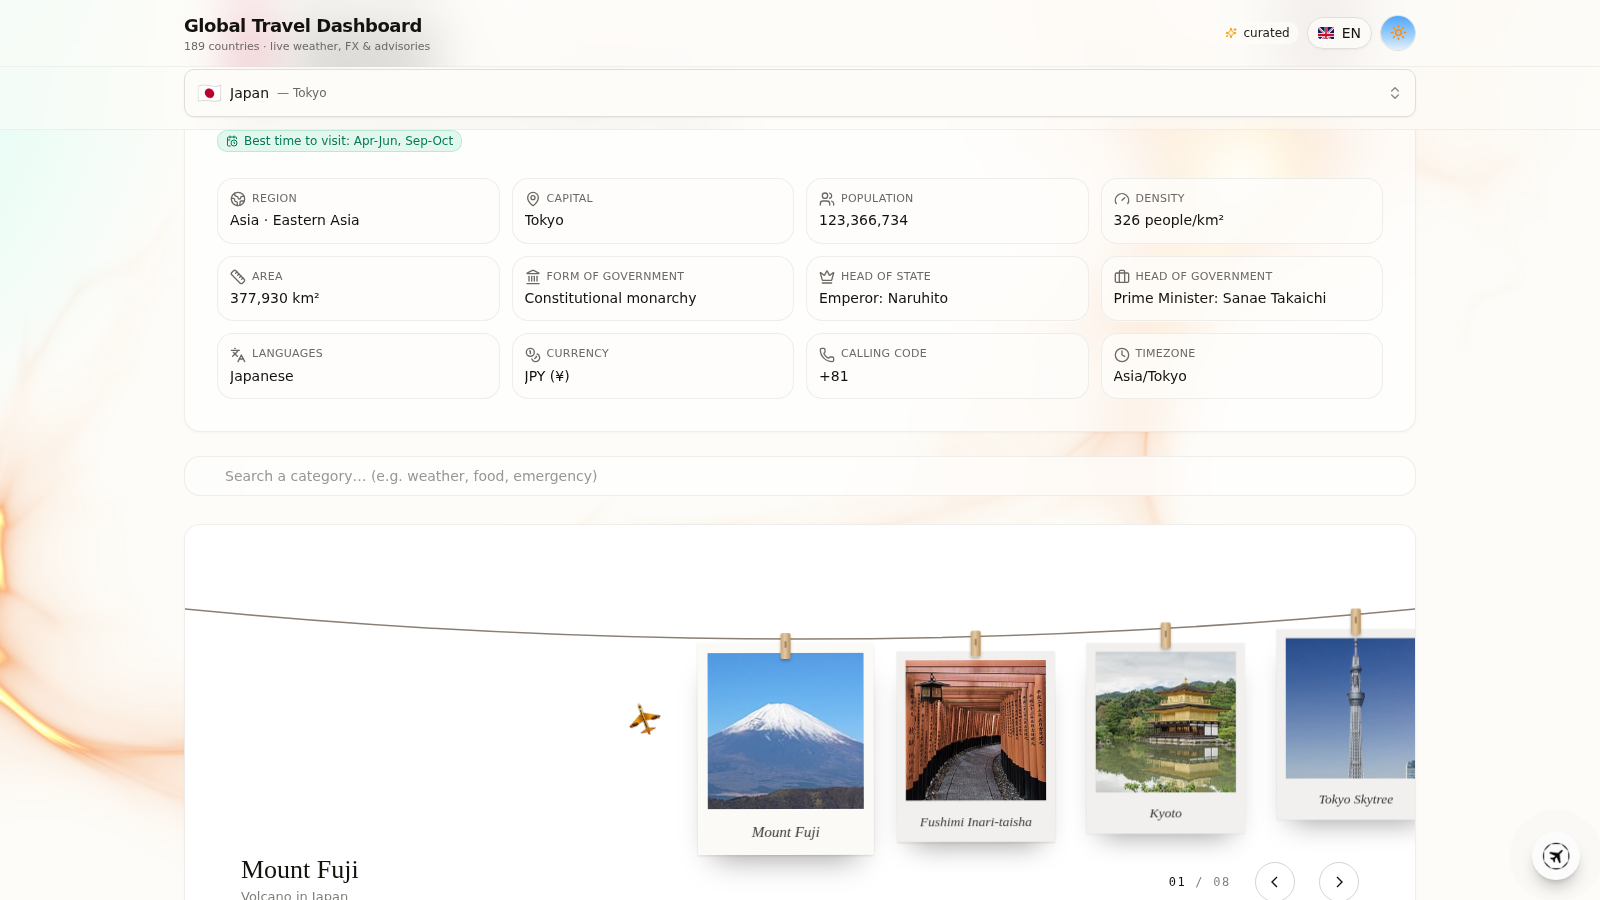
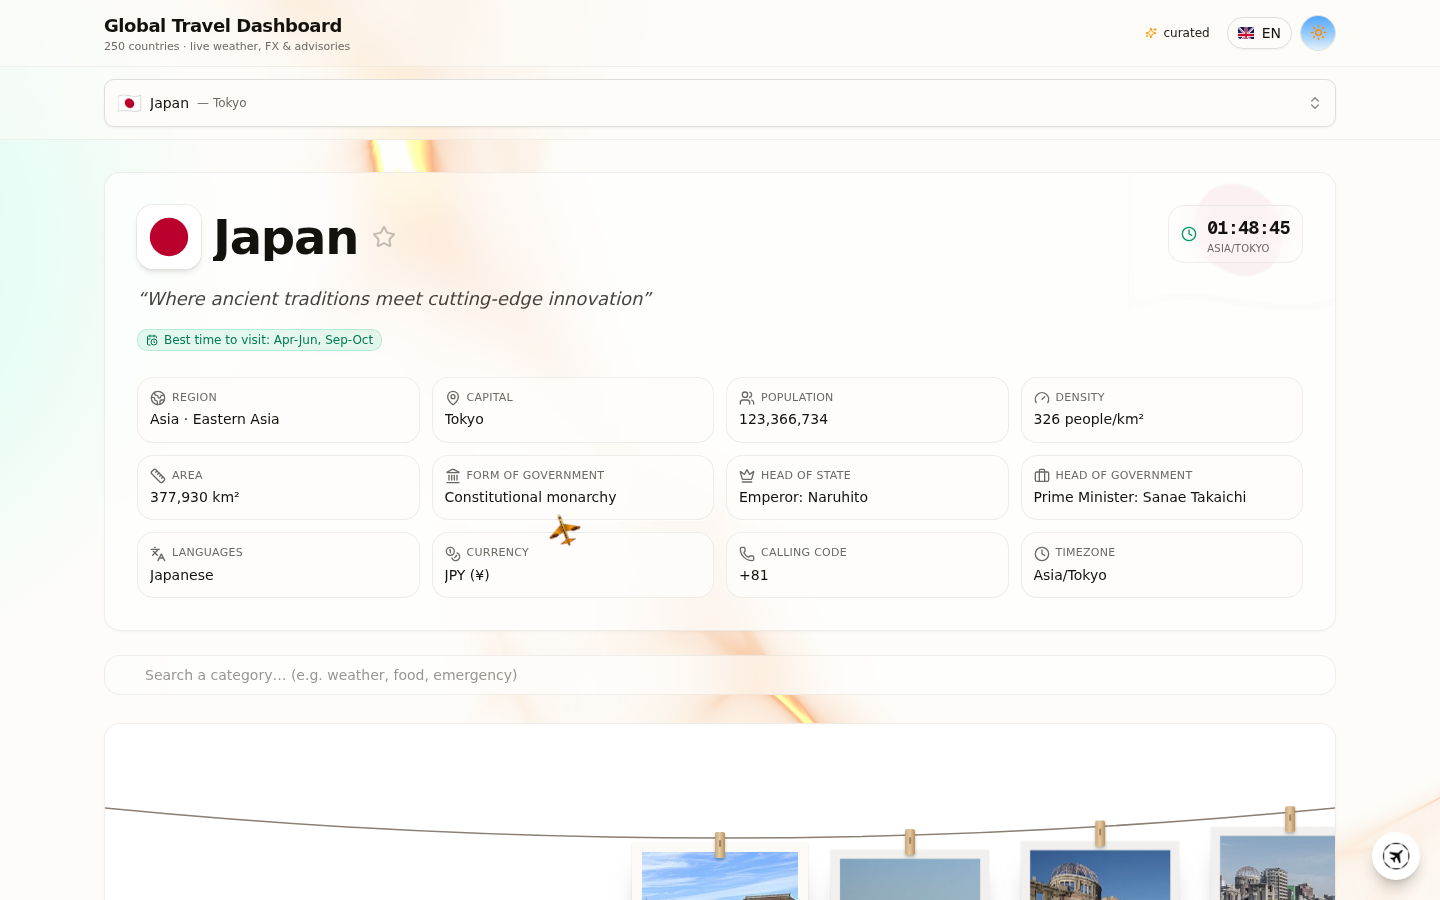
docs: README showcase overhaul + fresh screenshots at 250/250
- hero intro image, Play & explore and dark-mode screenshots
- architecture diagram (mermaid): live-data lane vs AI-brief lane
- complete env-var table, roadmap, star-history chart
- screenshots retaken without the dev-tools badge, with the FX fix

diff --git a/README.md b/README.md
@@ -11,22 +11,46 @@ A travel dashboard for **250 countries — none excluded**. Live weather, exchan
 
 **🌐 [Open the live demo](https://global-travel-dashboard.vercel.app)** · [MIT license](LICENSE)
 
-![Global Travel Dashboard](docs/screenshots/02-globe.png)
+![Global Travel Dashboard — intro with the animated globe](docs/screenshots/02-globe.png)
 
 ## What it does
 
 - Pick a country by search, or spin the 3D globe
+- **Play & explore**: 🎲 *Surprise me* teleports you to a random country, 🏆 *Globe quiz* asks you to find countries on the globe against the clock, ⚔ *Country duel* compares any two countries head-to-head on population, area, GDP, safety and weather
 - Live data for the selection: weather with 7-day forecast (Open-Meteo), ECB exchange rates (Frankfurter), US State Department advisory levels, recent earthquakes (USGS), World Bank GDP figures, Wikipedia photos, local clock
 - An LLM writes the slow-moving parts — country overview, culture, unwritten rules, safety notes, typical food, places worth visiting, hotel and flight price estimates. Written once, persisted afterwards, so it loads instantly on every later visit
 - UI in English, Spanish, Italian and French; other locales can be translated on the fly by the same LLM and cached
 - Light and dark theme, responsive layout, voice input for the AI chat
+
+## How it works
+
+Two data lanes with very different freshness requirements:
+
+```mermaid
+flowchart LR
+    subgraph live["Lane 1 — live data (fresh on every request)"]
+        B[Browser] --> API["API route<br/>(in-memory TTL cache)"]
+        API --> OM["Open-Meteo · Frankfurter/ECB<br/>US State Dept · USGS<br/>World Bank · Wikipedia"]
+    end
+
+    subgraph briefs["Lane 2 — AI briefs (evergreen, pre-generated)"]
+        DB[(SQLite in repo<br/>250/250 briefs)] --> API
+        CRON["Vercel Cron<br/>03:00 UTC daily"] -->|regenerate 2 oldest| TMP["disposable /tmp copy"]
+        TMP -->|LLM| TMP2[(updated SQLite)]
+        TMP2 -->|commit via GH_TOKEN| GH["GitHub repo"]
+        GH -->|push triggers| RD["Vercel redeploy"]
+    end
+```
+
+- **Live data** is fetched per-request with short in-memory caching — nothing to schedule, nothing to go stale.
+- **AI briefs** are editorial content: generated once, persisted in the committed SQLite database, and rotated daily (the 2 oldest entries get refreshed). The cron commits the updated database straight back to the repository, so every push triggers a redeploy and the site heals itself.
 
 ## Data sources
 
 | Category | Source | Updated |
 |---|---|---|
 | Weather + 7-day forecast | Open-Meteo (fallback wttr.in) | Real-time |
-| Exchange rates | Frankfurter / ECB | Daily |
+| Exchange rates | open.er-api.com (fallback Frankfurter / ECB) | Daily |
 | Travel advisories (levels 1–4) | US State Dept | Daily |
 | GDP, GDP per capita | World Bank | Annual |
 | Earthquakes | USGS | Real-time |
@@ -34,11 +58,15 @@ A travel dashboard for **250 countries — none excluded**. Live weather, exchan
 | Local time | IANA tz database | Real-time |
 | Briefs, food, places, prices | LLM, generated once and persisted | First visit |
 
+Each data source remains subject to its own terms of use.
+
 ## Screenshots
 
 ![Country view — Japan](docs/screenshots/03-country.png)
 
-![Live data cards](docs/screenshots/04-live-data.png)
+![Live data cards — weather, exchange rates, advisory](docs/screenshots/04-live-data.png)
+
+![Play & explore — surprise me, globe quiz, country duel](docs/screenshots/06-play.png)
 
 ![Dark mode](docs/screenshots/05-dark.png)
 
@@ -53,7 +81,24 @@ bun run db:generate    # the SQLite DB is pre-populated, no seed needed
 bun run dev            # http://localhost:3000
 ```
 
-Next.js 16 (App Router), TypeScript 5, Tailwind CSS 4, shadcn/ui, Prisma + SQLite, Framer Motion, react-globe.gl/cobe.
+Next.js 16 (App Router), TypeScript 5, Tailwind CSS 4, shadcn/ui, Prisma + SQLite, Framer Motion, react-globe.gl/cobe. `tests/` contains bash smoke checks for the database/runtime build paths.
+
+## Environment variables
+
+| Variable | Required | Purpose |
+|---|---|---|
+| `DATABASE_URL` | ✅ | SQLite location (`file:./db/custom.db` in dev) |
+| `ZAI_BASE_URL` | for AI chat | Any OpenAI-compatible base URL (…/v1) |
+| `ZAI_API_KEY` | for AI chat | Bearer key for the provider |
+| `ZAI_MODEL` | optional | Model name — auto-discovered from the provider when unset |
+| `ZAI_CHAT_MODEL` | optional | Separate model lane for the chatbot (default `llama-3.1-8b-instant`) |
+| `CRON_SECRET` | optional | Secures `/api/cron/refresh` for Vercel Cron |
+| `REFRESH_KEY` | optional | Manual trigger: `/api/cron/refresh?key=…&batch=3` |
+| `GH_TOKEN` | for commit-back | Fine-grained PAT with *Contents: read/write* |
+| `GH_REPO` | for commit-back | `owner/repo` |
+| `GH_BRANCH` | optional | Branch for the cron commit-back (default `main`) |
+
+Without the AI variables nothing breaks: live data and all 250 pre-generated briefs keep working — the chatbot just politely says it is not enabled.
 
 ## Deploying
 
@@ -61,37 +106,43 @@ Vercel works without configuration: import the repository and deploy. The pre-po
 
 Two things worth knowing:
 
-- Travel AI needs LLM credentials: either a `.z-ai-config` file or `ZAI_BASE_URL` + `ZAI_API_KEY` environment variables (plus `ZAI_MODEL` when the provider requires a model name). Any OpenAI-compatible endpoint works. Without credentials nothing breaks — live data and pre-generated briefs keep working, the chatbot just says it is not enabled.
-- On serverless, writes are per-instance and ephemeral. If you want generated briefs to survive restarts, host on Railway or Render with a persistent disk and set `DATABASE_URL=file:/data/custom.db`.
+- Travel AI needs LLM credentials: either a `.z-ai-config` file or `ZAI_BASE_URL` + `ZAI_API_KEY` environment variables. Any OpenAI-compatible endpoint works.
+- On serverless, writes are per-instance and ephemeral. If you want *newly generated* briefs to survive restarts, host on Railway or Render with a persistent disk and set `DATABASE_URL=file:/data/custom.db` — or let the cron commit-back handle it on Vercel, which is how this deployment runs.
 
 ## Automatic data updates
 
-Freshness is handled on two levels, with no manual work:
-
 1. **Live data — always fresh.** Exchange rates, weather, earthquakes, holidays, safety advisories and news are fetched from their APIs on every request (with short in-memory caching). Nothing to schedule.
-2. **AI briefs — daily rotation.** A Vercel Cron job (see `vercel.json`, daily at 03:00 UTC) calls `/api/cron/refresh`, which regenerates the 2 oldest country briefs into a disposable DB copy and reports coverage. Set these optional env vars to complete the loop:
-   - `CRON_SECRET` — secures the endpoint (Vercel sends it automatically).
-   - `GH_TOKEN` + `GH_REPO` (+ `GH_BRANCH`, default `main`) — with a fine-grained GitHub token ("Contents: read/write"), the refreshed database is committed back to the repository, which triggers a redeploy so the new briefs go live on their own.
-   - `REFRESH_KEY` — optionally trigger a manual run any time with `https://<your-app>/api/cron/refresh?key=<REFRESH_KEY>&batch=3`.
+2. **AI briefs — daily rotation.** A Vercel Cron job (see `vercel.json`, daily at 03:00 UTC) calls `/api/cron/refresh`, which regenerates the 2 oldest country briefs into a disposable DB copy. With `GH_TOKEN` + `GH_REPO` set, the refreshed database is committed back to the repository, which triggers a redeploy so the new briefs go live on their own.
 
-   With ~2 countries refreshed per day, the whole 250-country dataset rotates every ~4 months — appropriate for evergreen editorial content whose live data never ages anyway.
+With ~2 countries refreshed per day, the whole 250-country dataset rotates every ~4 months — appropriate for evergreen editorial content whose live data never ages anyway.
+
+## Roadmap
+
+- [x] AI briefs for **all 250 countries** — none excluded
+- [x] Play & explore: surprise me, globe quiz, country duel
+- [ ] Spoken answers in the AI chat (text-to-speech)
+- [ ] Shareable duel links (`?duel=IT-JP`)
+- [ ] Community translations beyond the 4 built-in locales
 
 ## Project structure
 
 ```
 src/
 ├── app/                  # App Router: page, layout, API routes
-│   └── api/countries/    # Countries aggregation endpoint
+│   └── api/cron/refresh/ # Daily brief rotation + GitHub commit-back
 ├── components/
 │   ├── ui/               # shadcn/ui + custom (globe, cursor, animations)
-│   └── dashboard/        # Dashboard sections (weather, economy, culture…)
+│   ├── dashboard/        # Dashboard sections (weather, economy, culture…)
+│   └── playground/       # Globe quiz + country duel
 ├── lib/
 │   ├── external/         # External API clients (World Bank, USGS, Open-Meteo…)
 │   ├── cache.ts          # In-memory cache with TTL
 │   ├── db.ts             # Prisma client + serverless-aware DB resolution
 │   └── i18n.ts           # UI translations (EN/ES/IT/FR)
 └── prisma/schema.prisma  # Data model
-db/custom.db              # Pre-populated SQLite database
+db/custom.db              # Pre-populated SQLite database (250/250 briefs)
+scripts/                  # Maintenance: brief pre-generation, Taiwan filter workaround
+tests/                    # Bash smoke checks for build/runtime paths
 ```
 
 ## Show your support
@@ -100,11 +151,11 @@ If this project taught you something, inspired your own build, or you just like 
 
 [![Star this repo](https://img.shields.io/badge/⭐-Star_this_repo-38B27D?style=for-the-badge)](https://github.com/pirrox809-del/global-travel-dashboard/stargazers)
 
+[![Star History Chart](https://api.star-history.com/svg?repos=pirrox809-del/global-travel-dashboard&type=Date)](https://star-history.com/#pirrox809-del/global-travel-dashboard&Date)
+
 ## Credits
 
 [mledoze/countries](https://github.com/mledoze/countries) · [Open-Meteo](https://open-meteo.com) · [Frankfurter](https://frankfurter.dev) · [US State Dept](https://travel.state.gov) · [World Bank](https://data.worldbank.org) · [USGS](https://earthquake.usgs.gov) · [Wikipedia](https://wikipedia.org) · [shadcn/ui](https://ui.shadcn.com)
-
-Each data source remains subject to its own terms of use.
 
 ## License
 
@@ -119,7 +170,7 @@ Each data source remains subject to its own terms of use.
 
 > Dashboard di viaggio per **250 paesi — nessuno escluso**. Se il progetto ti è piaciuto, lascia una ⭐ sulla repo!
 
-Meteo live, tassi di cambio, avvisi di viaggio, terremoti e dati economici in una sola pagina, insieme a una breve guida scritta dall'AI — panoramica, cultura, cibo, luoghi, prezzi — generata al primo accesso e salvata nel database.
+Meteo live, tassi di cambio, avvisi di viaggio, terremoti e dati economici in una sola pagina, insieme a una breve guida scritta dall'AI — panoramica, cultura, cibo, luoghi, prezzi — generata al primo accesso e salvata nel database. Con in più: 🎲 *Paese sorpresa*, 🏆 *Quiz globo* e ⚔ *Duello paesi*.
 
 **[Demo live](https://global-travel-dashboard.vercel.app)** — senza registrazione né configurazione.
 
@@ -128,7 +179,7 @@ Meteo live, tassi di cambio, avvisi di viaggio, terremoti e dati economici in un
 | Categoria | Fonte | Aggiornamento |
 |---|---|---|
 | Meteo + previsioni 7 giorni | Open-Meteo (fallback wttr.in) | Tempo reale |
-| Tassi di cambio | Frankfurter / BCE | Quotidiano |
+| Tassi di cambio | open.er-api.com (fallback Frankfurter / BCE) | Quotidiano |
 | Avvisi di viaggio (livelli 1–4) | US State Dept | Quotidiano |
 | PIL, PIL pro capite | World Bank | Annuale |
 | Terremoti | USGS | Tempo reale |
@@ -153,7 +204,7 @@ Su Vercel funziona senza alcuna configurazione: importa la repository e fai depl
 
 Due cose da sapere:
 
-- Travel AI ha bisogno di credenziali LLM: un file `.z-ai-config` oppure le variabili d'ambiente `ZAI_BASE_URL` + `ZAI_API_KEY` (con `ZAI_MODEL` se il provider lo richiede). Va bene qualsiasi endpoint OpenAI-compatibile. Senza credenziali nulla si rompe: i dati live e i brief pre-generati continuano a funzionare, solo la chat resta disattivata.
-- Su serverless le scritture sono per-istanza ed effimere. Per conservare i brief generati, usa Railway o Render con disco persistente e `DATABASE_URL=file:/data/custom.db`.
+- Travel AI ha bisogno di credenziali LLM: un file `.z-ai-config` oppure le variabili d'ambiente `ZAI_BASE_URL` + `ZAI_API_KEY`. Va bene qualsiasi endpoint OpenAI-compatibile. Senza credenziali nulla si rompe: i dati live e i brief pre-generati continuano a funzionare, solo la chat resta disattivata.
+- Su serverless le scritture sono per-istanza ed effimere. Per conservare i brief generati, usa Railway o Render con disco persistente e `DATABASE_URL=file:/data/custom.db` — oppure lascia fare al cron con commit-back su GitHub, che è come gira questa istanza.
 
 </details>
